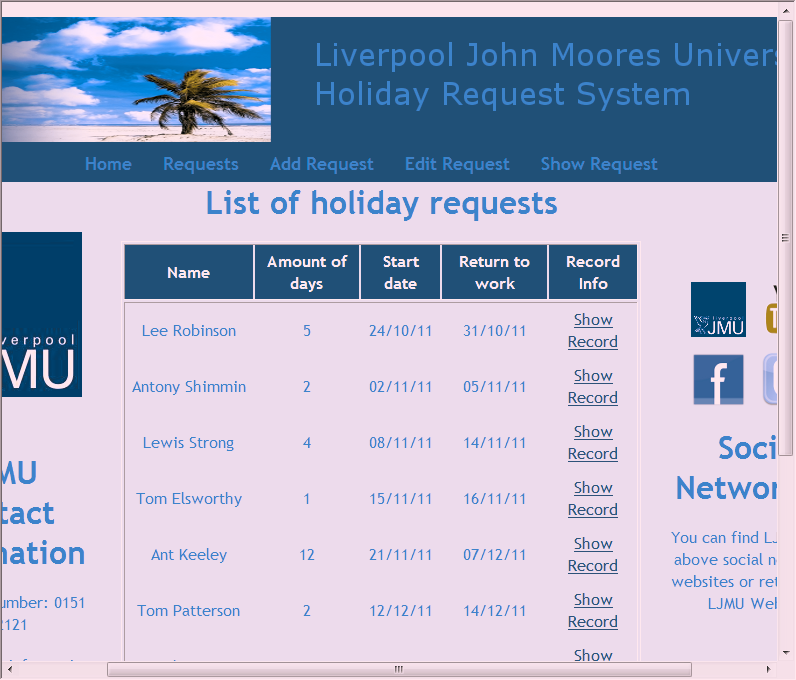
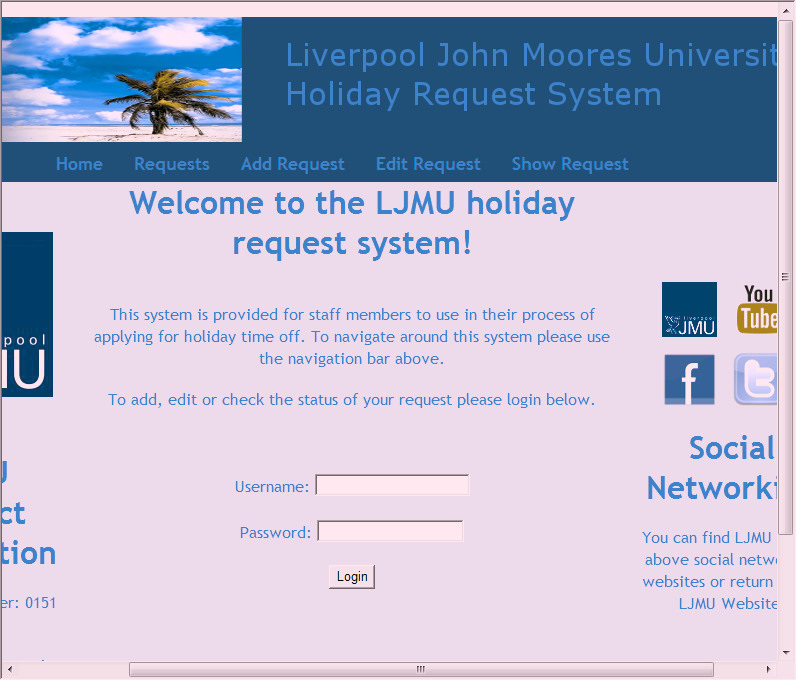
Website Upload

diff --git a/Website/requests.html b/Website/requests.html
@@ -2,11 +2,12 @@
 <html>
 <head>
 <meta http-equiv="Content-Type" content="text/html; charset=utf-8">
-<title>LJMU Holiday Request System</title>
+<title>LJMU Holiday Request System - List of requests</title>
 <link href="styles/mystyles.css" rel="stylesheet" type="text/css">
 </head>
 
 <body>
+
 <div id="container">
 
   <div id="header"><img src="images/ljmuheader.png" width="968" height="125" alt="LJMUHeader" title="LJMU Holiday Request System header"></div>
@@ -14,7 +15,7 @@
   <!-- The header is a premade image using GIMP. It also has alt tags so that it identifies the area it takes up on the website and users know what will be there. -->
   
   <div class="navigation">
-	<ul>
+  <ul>
 	<li><a title= "Home page of LJMU holiday requests" href="index.html" accesskey="i">Home</a></li>
 	<li><a title = "List of holiday requests" href="requests.html" accesskey="r">Requests</a></li>
 	<li><a title  = "Add a new holiday request to the system" href="new.html" accesskey="n">Add Request</a></li>
@@ -33,27 +34,67 @@
     
     <!-- The left column encloses the LJMU logo and the contact information about LJMU. The hyperlink will take the user to the LJMU contact page. -->
     
-  <div id="maincolumn"><h1>Welcome to the LJMU holiday request system!</h1><br>
-  <p>This system is provided for staff members to use in their process of applying for holiday time off. To navigate around this system please use the navigation bar above.</p> <p>To add, edit or check the status of your request please login below.</p><br><br>
-  <div class="form">
-  <form action="index.html" method="post" name="login">
-    
-      <label for="username">Username:</label>
-      <input type="text" name="username" id="username" accesskey="u">
-    
-    	<br><br>
-      <label for="password">Password:</label>
-      <input type="password" name="password" id="password" accesskey="p">
-    
-    	<br><br>
-      <input type="submit" name="button" id="button" value="Login" accesskey="b">
-    
-  </form>
+  <div id="maincolumn">
+  
+  <h1>List of holiday requests</h1>
+  
+  <table border = "1" cellpadding = "5" rules="groups" frame="box">
+  
+  <thead>
+  <tr> 
+  <th>Name</th> <th>Amount of days</th> <th>Start date</th> <th>Return to work</th> <th>Record Info</th></tr>
+  </thead>
+   
+  <tbody>
+  <tr>
+  <td>Lee Robinson</td> <td>5</td> <td>24/10/11</td> <td>31/10/11</td> <td><a title = "Show Record" href = "show.html">Show Record</a></td>
+  </tr>
+  
+  <tr>
+  <td>Antony Shimmin</td> <td>2</td> <td>02/11/11</td> <td>05/11/11</td> <td><a title = "Show Record" href = "show.html">Show Record</a></td>
+  </tr>
+  
+  <tr>
+  <td>Lewis Strong</td> <td>4</td> <td>08/11/11</td> <td>14/11/11</td> <td><a title = "Show Record" href = "show.html">Show Record</a></td>
+  </tr>
+  
+  <tr>
+  <td>Tom Elsworthy</td> <td>1</td> <td>15/11/11</td> <td>16/11/11</td> <td><a title = "Show Record" href = "show.html">Show Record</a></td>
+  </tr>
+  
+  <tr>
+  <td>Ant Keeley</td> <td>12</td> <td>21/11/11</td> <td>07/12/11</td> <td><a title = "Show Record" href = "show.html">Show Record</a></td>
+  </tr>
+  
+  <tr>
+  <td>Tom Patterson</td> <td>2</td> <td>12/12/11</td> <td>14/12/11</td> <td><a title = "Show Record" href = "show.html">Show Record</a></td>
+  </tr>
+  
+  <tr>
+  <td>Matthew Lee</td> <td>4</td> <td>04/01/11</td> <td>10/01/11</td> <td><a title = "Show Record" href = "show.html">Show Record</a></td>
+  </tr>
+  
+  <tr>
+  <td>Patryk Kot</td> <td>3</td> <td>13/01/11</td> <td>18/01/11</td> <td><a title = "Show Record" href = "show.html">Show Record</a></td>
+  </tr>
+  
+  <tr>
+  <td>Mohammad Muradov</td> <td>3</td> <td>01/02/11</td> <td>06/02/11</td> <td><a title = "Show Record" href = "show.html">Show Record</a></td>
+  </tr>
+  
+  <tr>
+  <td>Craig Scott</td> <td>18</td> <td>09/02/11</td> <td>05/03/11</td> <td><a title = "Show Record" href = "show.html">Show Record</a></td>
+  </tr>
+  
+  
+  </tbody>
+  
+  
+  </table>
   
   </div>
-  </div>
   
-  <!-- The home page main column shows the login form for the user. The login button would take the user to the requests page. There are also access keys for the form fields. -->
+  <!-- The main column on this page shows the requests that have been made by each individual. Each request has a link to the show page. -->
   
   <div id="rightcolumn"> 
   

diff --git a/Website/new.html b/Website/new.html
@@ -14,9 +14,9 @@
   <!-- The header is a premade image using GIMP. It also has alt tags so that it identifies the area it takes up on the website and users know what will be there. -->
   
   <div class="navigation">
-	<ul>
-	<li><a title= "Home page of LJMU holiday requests" href="home.html" accesskey="l">Home</a></li>
-	<li><a title = "List of holiday requests" href="index.html" accesskey="i">Requests</a></li>
+  <ul>
+	<li><a title= "Home page of LJMU holiday requests" href="index.html" accesskey="i">Home</a></li>
+	<li><a title = "List of holiday requests" href="requests.html" accesskey="r">Requests</a></li>
 	<li><a title  = "Add a new holiday request to the system" href="new.html" accesskey="n">Add Request</a></li>
 	<li><a title = "Edit a holiday request" href="edit.html" accesskey="e">Edit Request</a></li>
 	<li><a title = "Show an individual request of the system" href="show.html" accesskey="s">Show Request</a></li>
@@ -60,7 +60,7 @@
   <br><br>
   
   <label for="returndate">Return Date:</label>
-  <input type="text" name="return" id="returndate" accesskey="r">
+  <input type="text" name="return" id="returndate" accesskey="c">
   
   <br><br>
   

diff --git a/Website/edit.html b/Website/edit.html
@@ -15,8 +15,8 @@
   
   <div class="navigation">
 	<ul>
-	<li><a title= "Home page of LJMU holiday requests" href="home.html" accesskey="l">Home</a></li>
-	<li><a title = "List of holiday requests" href="index.html" accesskey="i">Requests</a></li>
+	<li><a title= "Home page of LJMU holiday requests" href="index.html" accesskey="i">Home</a></li>
+	<li><a title = "List of holiday requests" href="requests.html" accesskey="r">Requests</a></li>
 	<li><a title  = "Add a new holiday request to the system" href="new.html" accesskey="n">Add Request</a></li>
 	<li><a title = "Edit a holiday request" href="edit.html" accesskey="e">Edit Request</a></li>
 	<li><a title = "Show an individual request of the system" href="show.html" accesskey="s">Show Request</a></li>
@@ -57,7 +57,7 @@
   <br><br>
   
   <label for="returndate">Return Date:</label>
-  <input type="text" name="return" value="05/11/11" id="returndate" accesskey="r">
+  <input type="text" name="return" value="05/11/11" id="returndate" accesskey="c">
   
   <br><br>
   

diff --git a/Website/show.html b/Website/show.html
@@ -15,9 +15,9 @@
   <!-- The header is a premade image using GIMP. It also has alt tags so that it identifies the area it takes up on the website and users know what will be there. -->
   
   <div class="navigation">
-	<ul>
-	<li><a title= "Home page of LJMU holiday requests" href="home.html" accesskey="l">Home</a></li>
-	<li><a title = "List of holiday requests" href="index.html" accesskey="i">Requests</a></li>
+  <ul>
+	<li><a title= "Home page of LJMU holiday requests" href="index.html" accesskey="i">Home</a></li>
+	<li><a title = "List of holiday requests" href="requests.html" accesskey="r">Requests</a></li>
 	<li><a title  = "Add a new holiday request to the system" href="new.html" accesskey="n">Add Request</a></li>
 	<li><a title = "Edit a holiday request" href="edit.html" accesskey="e">Edit Request</a></li>
 	<li><a title = "Show an individual request of the system" href="show.html" accesskey="s">Show Request</a></li>
